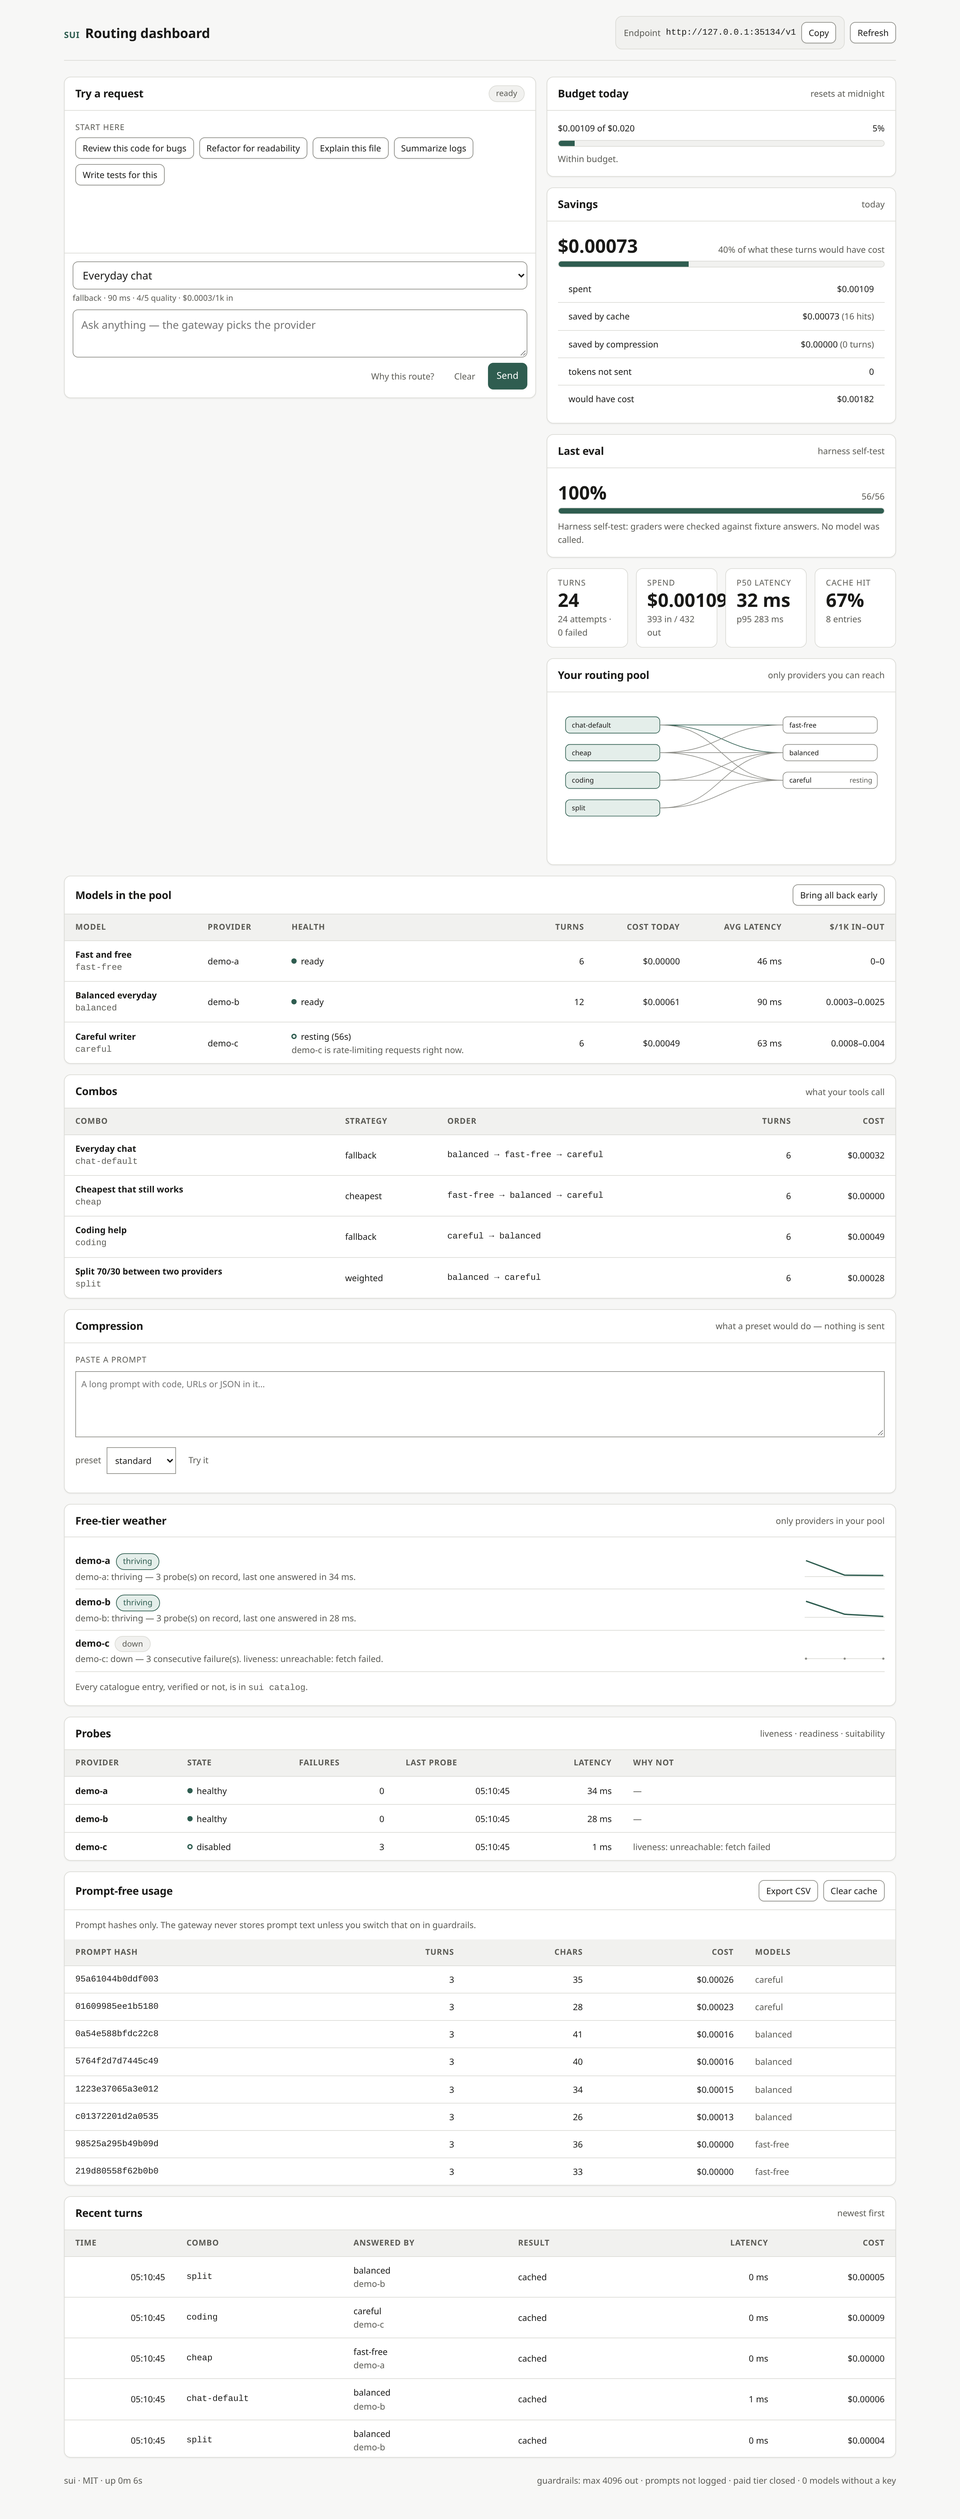
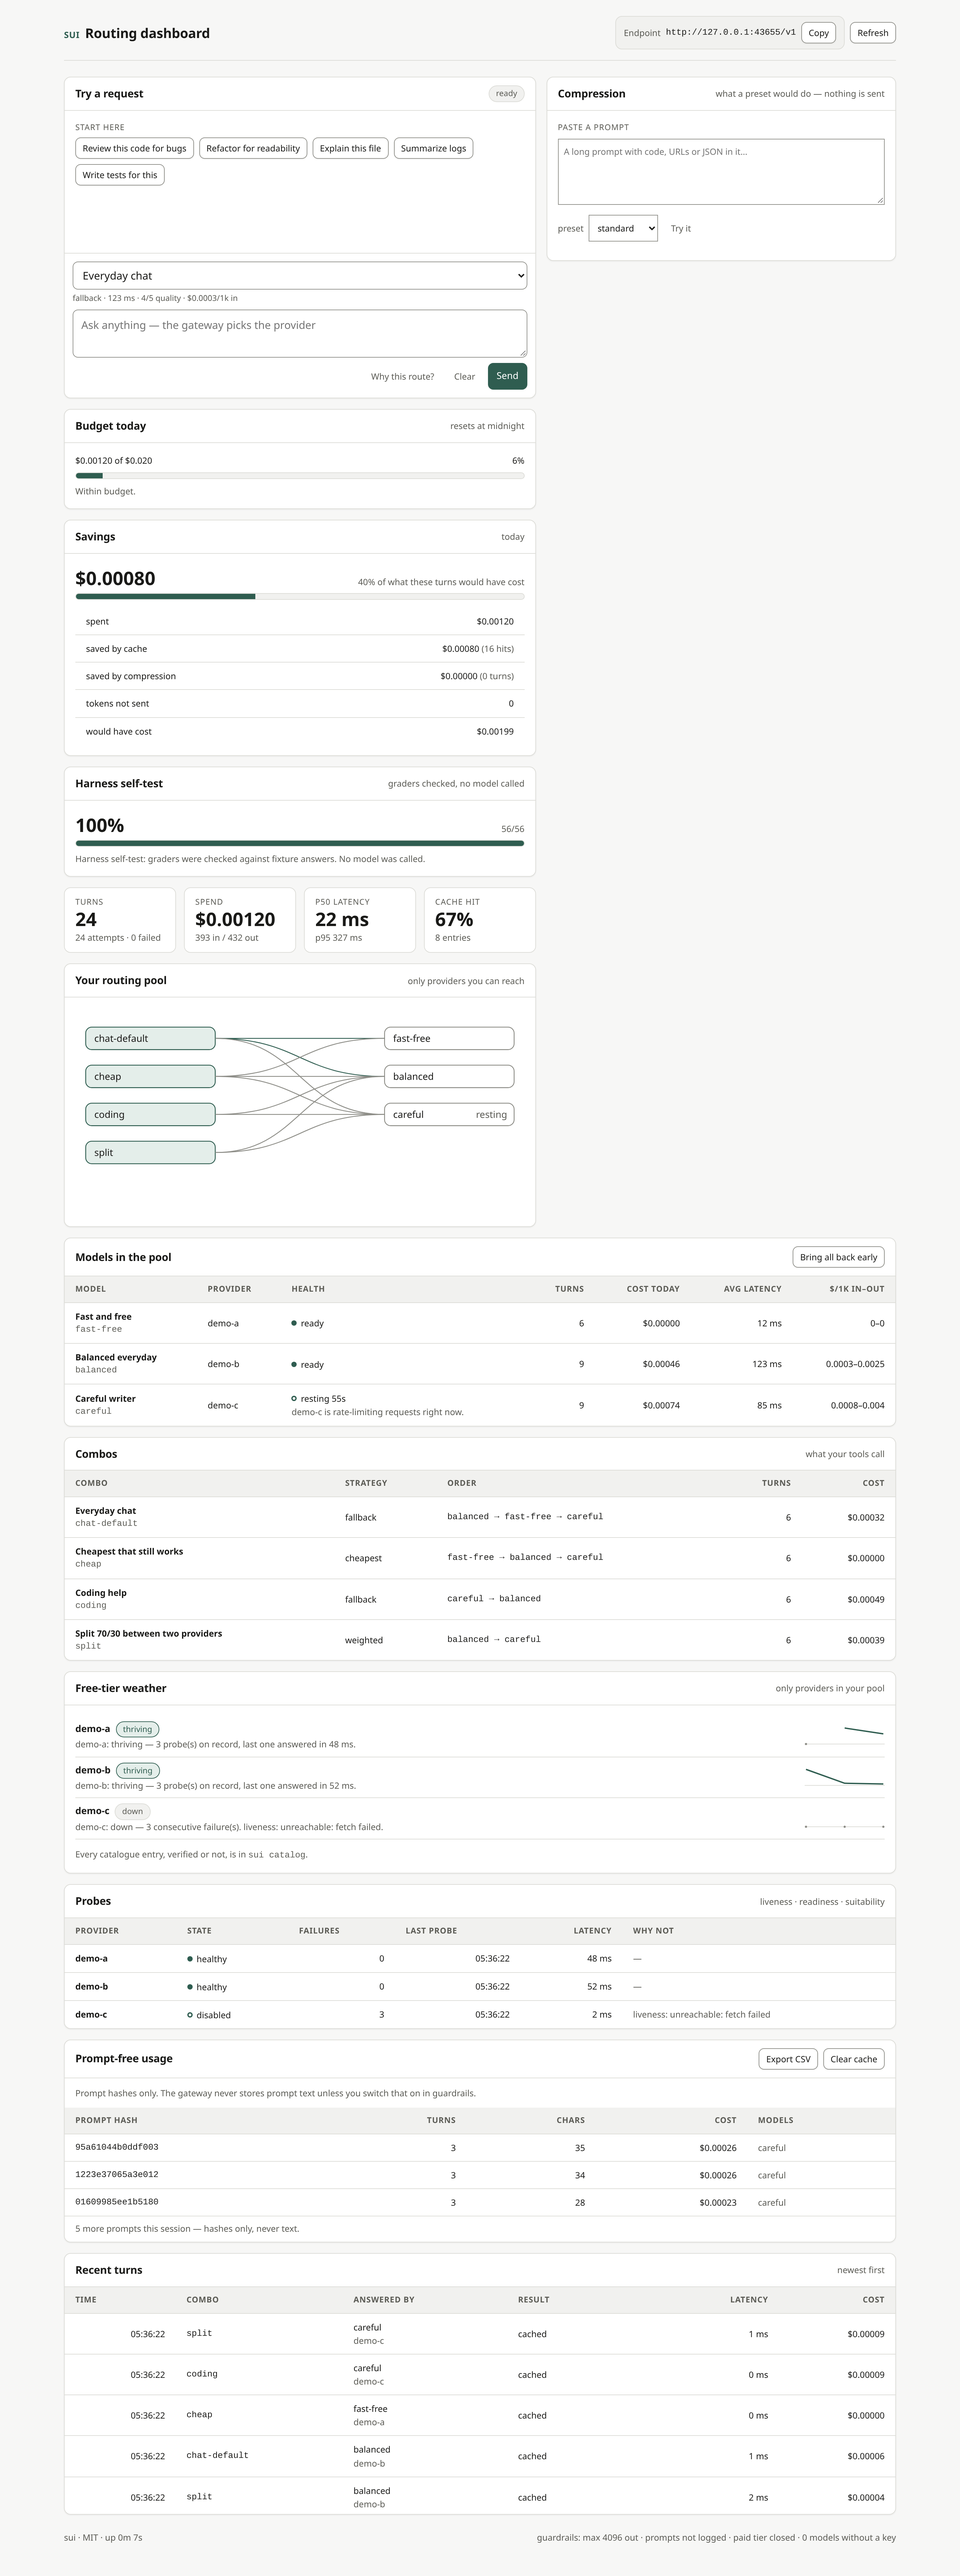
fix(dashboard): three findings from a design review, and a layout hole
Reviewed against the HIG checklist rather than by taste. Three findings, all of
them trust rather than polish:

1. The breaker emits 'half-open' with a hyphen; the stylesheet was written for
   'half_open' with an underscore. That state therefore had no dot and fell
   through to a nested ternary that produced a label reading as a bug — the
   health column said '0-mining (0s)'. Labels now come from one map, both
   spellings are styled, and the words are 'ready', 'resting 60s',
   'trying again'.

2. The card headed 'Last eval — 100%' was showing the harness self-test, which
   proves the graders grade and says nothing about answer quality. It is now
   headed 'Answer quality' and switches to 'Harness self-test' when that is what
   ran, with the sub-line 'graders checked, no model called'.

3. Eight rows of prompt hashes is noise nobody acts on. Three rows plus 'N more
   prompts this session — hashes only, never text.'

And the layout: the left column had a 400 px hole under the playground while the
right column ran four cards deep. The compression card — which is a 'do
something' card, like the playground — moved up to fill it.

Three tests hold the fixes, including one that fails if the eval heading claims a
quality measurement before one has run.

510 tests, audit 8/8, ADR 10/10.

diff --git a/apps/dashboard/web/dashboard.html b/apps/dashboard/web/dashboard.html
@@ -161,6 +161,7 @@
   .status { display: inline-flex; align-items: center; gap: 6px; font-size: var(--fs-13); white-space: nowrap; }
   .status .dot { width: 8px; height: 8px; border-radius: 50%; background: var(--accent); flex: none; }
   .status[data-state="open"] .dot { background: transparent; border: 2px solid var(--accent); }
+  .status[data-state="half-open"] .dot,
   .status[data-state="half_open"] .dot { background: var(--accent); opacity: 0.5; }
   .status[data-state="unknown"] .dot { background: var(--line-strong); }
 
@@ -304,6 +305,25 @@
       </div>
     </section>
 
+    <section class="card" id="compress-card" aria-labelledby="compress-h">
+      <header>
+        <h2 id="compress-h">Compression</h2>
+        <span class="hint">what a preset would do — nothing is sent</span>
+      </header>
+      <div class="body">
+        <label class="who" for="compress-text" style="display:block;font-size:var(--fs-12);text-transform:uppercase;letter-spacing:.06em;color:var(--text-dim);margin-bottom:var(--space-2)">Paste a prompt</label>
+        <textarea id="compress-text" rows="4" style="width:100%;font:inherit;font-size:var(--fs-13);padding:var(--space-2);border:1px solid var(--line-strong);border-radius:var(--radius-sm);background:var(--surface);color:var(--text)" placeholder="A long prompt with code, URLs or JSON in it…"></textarea>
+        <div class="row" style="display:flex;gap:var(--space-2);align-items:center;margin-top:var(--space-2);flex-wrap:wrap">
+          <label class="hint" for="compress-preset">preset</label>
+          <select id="compress-preset" style="font:inherit;font-size:var(--fs-13);padding:4px 8px;border:1px solid var(--line-strong);border-radius:var(--radius-sm);background:var(--surface);color:var(--text)">
+            <option>lite</option><option selected>standard</option><option>aggressive</option><option>ultra</option>
+          </select>
+          <button class="ghost small" id="compress-run" type="button">Try it</button>
+        </div>
+        <div id="compress-result" style="margin-top:var(--space-3)"></div>
+      </div>
+    </section>
+
     <!-- ------------------------------------------------ ops column -->
     <div class="split">
 
@@ -323,7 +343,7 @@
       </section>
 
       <section class="card" id="eval-card" aria-labelledby="eval-h">
-        <header><h2 id="eval-h">Last eval</h2><span class="hint" id="eval-when">—</span></header>
+        <header><h2 id="eval-h">Answer quality</h2><span class="hint" id="eval-when">—</span></header>
         <div class="body" id="eval-body">
           <div class="skeleton line" style="width: 60%"></div>
         </div>
@@ -387,24 +407,6 @@
       </div>
     </section>
 
-    <section class="card" id="compress-card" aria-labelledby="compress-h">
-      <header>
-        <h2 id="compress-h">Compression</h2>
-        <span class="hint">what a preset would do — nothing is sent</span>
-      </header>
-      <div class="body">
-        <label class="who" for="compress-text" style="display:block;font-size:var(--fs-12);text-transform:uppercase;letter-spacing:.06em;color:var(--text-dim);margin-bottom:var(--space-2)">Paste a prompt</label>
-        <textarea id="compress-text" rows="4" style="width:100%;font:inherit;font-size:var(--fs-13);padding:var(--space-2);border:1px solid var(--line-strong);border-radius:var(--radius-sm);background:var(--surface);color:var(--text)" placeholder="A long prompt with code, URLs or JSON in it…"></textarea>
-        <div class="row" style="display:flex;gap:var(--space-2);align-items:center;margin-top:var(--space-2);flex-wrap:wrap">
-          <label class="hint" for="compress-preset">preset</label>
-          <select id="compress-preset" style="font:inherit;font-size:var(--fs-13);padding:4px 8px;border:1px solid var(--line-strong);border-radius:var(--radius-sm);background:var(--surface);color:var(--text)">
-            <option>lite</option><option selected>standard</option><option>aggressive</option><option>ultra</option>
-          </select>
-          <button class="ghost small" id="compress-run" type="button">Try it</button>
-        </div>
-        <div id="compress-result" style="margin-top:var(--space-3)"></div>
-      </div>
-    </section>
 
     <section class="card" id="weather-card" aria-labelledby="weather-h" hidden>
       <header>
@@ -566,8 +568,17 @@ function renderKpis(totals, cache) {
 }
 
 function healthCell(m) {
-  const label = m.health === 'closed' ? 'ready' : m.health === 'open' ? `resting (${Math.ceil(m.retryInMs / 1000)}s)` : 'testing';
-  return `<span class="status" data-state="${m.health}"><span class="dot" aria-hidden="true"></span>${label}</span>`;
+  // The breaker says 'half-open' with a hyphen; the stylesheet was written for
+  // 'half_open' with an underscore, so that state had no dot and a label that
+  // read as a bug. One normaliser, one map, both spellings understood.
+  const state = String(m.health ?? 'unknown').replace(/_/g, '-');
+  const labels = {
+    closed: 'ready',
+    open: `resting ${Math.max(0, Math.ceil((m.retryInMs ?? 0) / 1000))}s`,
+    'half-open': 'trying again',
+    unknown: 'unknown',
+  };
+  return `<span class="status" data-state="${state}"><span class="dot" aria-hidden="true"></span>${labels[state] ?? escapeHtml(state)}</span>`;
 }
 
 function renderPool(pool) {
@@ -614,7 +625,11 @@ async function loadEval() {
     }
     const r = json.report;
     const pct = Math.round((r.passRate ?? 0) * 100);
-    when.textContent = r.mode === 'self-test' ? 'harness self-test' : `combo ${r.combo ?? '—'}`;
+    // A self-test proves the graders grade. It says nothing about answer quality,
+    // so the heading must not imply it did.
+    const title = document.querySelector('#eval-h');
+    if (title) title.textContent = r.mode === 'self-test' ? 'Harness self-test' : 'Answer quality';
+    when.textContent = r.mode === 'self-test' ? 'graders checked, no model called' : `combo ${r.combo ?? '—'}`;
     body.innerHTML = `
       <div class="row" style="display:flex;justify-content:space-between;align-items:baseline;gap:var(--space-3)">
         <span class="num" style="font-size: var(--fs-28); font-weight: 600">${pct}%</span>
@@ -778,7 +793,7 @@ function renderProbes(probes) {
   document.querySelector('#probes-body').innerHTML = probes.map((p) => `
     <tr>
       <td><strong>${escapeHtml(p.provider)}</strong></td>
-      <td><span class="status" data-state="${p.status === 'healthy' ? 'closed' : p.status === 'disabled' ? 'open' : 'half_open'}"><span class="dot" aria-hidden="true"></span>${p.status}</span></td>
+      <td><span class="status" data-state="${p.status === 'healthy' ? 'closed' : p.status === 'disabled' ? 'open' : 'half-open'}"><span class="dot" aria-hidden="true"></span>${p.status}</span></td>
       <td class="num">${p.failures}</td>
       <td class="num">${p.lastProbeAt ? new Date(p.lastProbeAt).toLocaleTimeString('en-IN', { hour12: false }) : '—'}</td>
       <td class="num">${p.latencyMs == null ? '—' : `${p.latencyMs} ms`}</td>
@@ -787,15 +802,21 @@ function renderProbes(probes) {
 }
 
 function renderTraces(prompts) {
+  // Eight rows of hex is noise nobody acts on; three plus a count is a signal.
+  const shown = prompts.slice(0, 3);
+  const rest = prompts.length - shown.length;
   $('#traces-body').innerHTML = prompts.length
-    ? prompts.map((p) => `
+    ? shown.map((p) => `
       <tr>
         <td class="mono">${p.promptHash}</td>
         <td class="num">${p.turns}</td>
         <td class="num">${num(p.chars)}</td>
         <td class="num">${money(p.costUsd)}</td>
         <td class="hint">${p.models.join(', ')}</td>
-      </tr>`).join('')
+      </tr>`).join('') +
+      (rest > 0
+        ? `<tr><td colspan="5" class="hint" style="padding-top: var(--space-2)">${rest} more prompt${rest === 1 ? '' : 's'} this session — hashes only, never text.</td></tr>`
+        : '')
     : `<tr><td colspan="5" class="hint" style="padding: var(--space-4)">Nothing routed yet. Send a request above.</td></tr>`;
 }
 

diff --git a/test/dashboard.test.js b/test/dashboard.test.js
@@ -104,8 +104,10 @@ test('the weather map is present, labelled in words, and never colour-only', () 
 
 test('the last-eval card is present and labelled honestly', () => {
   assert.match(html, /id="eval-card"/);
-  assert.match(html, /Last eval/);
-  assert.match(html, /harness self-test/);
+  // the heading is a promise about what was measured, so it starts neutral and
+  // switches to "Harness self-test" when that is what ran
+  assert.match(html, /<h2 id="eval-h">Answer quality<\/h2>/);
+  assert.match(html, /harness self-test/i);
   assert.match(html, /No eval has been run on this machine/);
 });
 
@@ -172,4 +174,39 @@ test('the dashboard smoke test covers the three states a page breaks in', async 
   // the fresh-install state has a provider and no key, not an empty config:
   // a gateway with no providers is refused by validation, correctly
   assert.match(script, /apiKeyEnv: 'GROQ_API_KEY_NOT_SET'/);
+});
+
+/* --------------------------- the dashboard must not mislead (design review) */
+
+test('every breaker state has a human label, in both spellings', async () => {
+  const { readFileSync } = await import('node:fs');
+  const { join } = await import('node:path');
+  const html = readFileSync(join(process.cwd(), 'apps', 'dashboard', 'web', 'dashboard.html'), 'utf8');
+
+  // the breaker emits 'half-open'; the stylesheet was written for 'half_open',
+  // so that state rendered with no dot and a label that read as a bug
+  assert.match(html, /'half-open':/, 'the half-open state needs a label');
+  assert.match(html, /data-state="half-open"\] \.dot/);
+  assert.match(html, /data-state="half_open"\] \.dot/, 'the old spelling must keep working');
+  assert.equal(/health === 'closed' \? 'ready' : m\.health === 'open' \?/.test(html), false, 'the label must come from a map, not a nested ternary');
+});
+
+test('the eval card does not imply answer quality when it ran a self-test', async () => {
+  const { readFileSync } = await import('node:fs');
+  const { join } = await import('node:path');
+  const html = readFileSync(join(process.cwd(), 'apps', 'dashboard', 'web', 'dashboard.html'), 'utf8');
+
+  // a self-test proves the graders grade; a heading of "Last eval / 100%" says
+  // something else entirely
+  assert.equal(/<h2 id="eval-h">Last eval<\/h2>/.test(html), false, 'the heading must not claim an eval before one has run');
+  assert.match(html, /r\.mode === 'self-test' \? 'Harness self-test' : 'Answer quality'/);
+});
+
+test('prompt hashes are capped and the remainder is counted', async () => {
+  const { readFileSync } = await import('node:fs');
+  const { join } = await import('node:path');
+  const html = readFileSync(join(process.cwd(), 'apps', 'dashboard', 'web', 'dashboard.html'), 'utf8');
+
+  assert.match(html, /prompts\.slice\(0, 3\)/, 'eight rows of hex is noise; three plus a count is a signal');
+  assert.match(html, /more prompt\$\{rest === 1 \? '' : 's'\} this session/);
 });

diff --git a/docs/index.html b/docs/index.html
@@ -110,7 +110,7 @@
   </div>
 
   <div class="strip">
-    <div class="stat"><div class="k">tests</div><div class="v num">507</div><div class="f">no network, no keys</div></div>
+    <div class="stat"><div class="k">tests</div><div class="v num">510</div><div class="f">no network, no keys</div></div>
     <div class="stat"><div class="k">p95 overhead</div><div class="v num">1.13<span style="font-size:var(--fs-16)"> ms</span></div><div class="f">budget 15 ms</div></div>
     <div class="stat"><div class="k">invariants</div><div class="v num">19</div><div class="f">each with a test</div></div>
     <div class="stat"><div class="k">catalogue</div><div class="v num">29</div><div class="f">endpoints, all awaiting a probe</div></div>

diff --git a/ROADMAP.md b/ROADMAP.md
@@ -136,6 +136,8 @@ All todo. `ai-bridge` (MCP-shaped tool plumbing, adapters) is the intended refer
 
 **B11.9 ADRs — done**: ADR-0008 (drift), 0009 (MCP both directions), 0010 (recipes), 0011 (attribution and tenants), 0012 (the four routing policies) join the original seven. `CONTRIBUTING.md` records the invariant discipline, the four harnesses, the three kinds of test failure, and the rules for adapters, engines and kits.
 
+**Dashboard critique — done**: reviewed against the HIG checklist. Three findings, all fixed: the breaker's `half-open` state had no styling and a label that read as a bug (`0-mining (0s)` — the stylesheet expected `half_open` with an underscore), the card headed **"Last eval — 100%"** was showing the *harness self-test*, which says nothing about answer quality, and eight rows of prompt hashes were noise nobody acts on. Also moved the compression card into the left column, which had a 400 px hole under the playground. Three tests hold the fixes.
+
 **Documentation pass — done**: the README was 202 lines with a 42-bullet feature wall, written for someone auditing claims rather than someone deciding whether to use the project. It is now 112 lines in the OSS template's shape — about, why it exists, install, ten features, how it holds itself, docs map, status, licence — with the full list moved to `docs/FEATURES.md`. Following it cold in a fresh clone found the bug that made the whole thing necessary: the first run printed *"Start it with: npx sui start"*, and `npx sui` cannot work before a publish. Every runtime hint now matches how the CLI was invoked, and a test fails if `npx sui` appears in first-run output.
 
 **Windows without npx — done**: `npx sui` cannot work before a publish, so the repo now ships wrappers that need no npm account — `sui.cmd` (CMD), `sui.ps1` (PowerShell), `sui` (sh) — plus `scripts/install-windows.ps1` (checks Node, links workspaces, proves the CLI runs) and `docs/WINDOWS.md` written for someone who has never opened a terminal. `npm link` now gives a global `sui` from the checkout. Also fixed: `sui --version` and `sui --help` fell through to the first-run onboarding, because both arrive as flags rather than as a command.

diff --git a/README.md b/README.md
@@ -73,7 +73,7 @@ Nineteen invariants live as data in [`packages/core/src/invariants.js`](packages
 | **I13** | The breaker trips on 5xx and transport only — never on 401, 404 or 429. |
 | **I19** | The health history holds no prompt content, and drops any row that carries it. |
 
-Run `npm test`, `npm run audit` (8 static checks plus 10 ADR compliance checks), `npm run eval:self`, `npm run soak`, `npm run smoke:dashboard`. The numbers, as of this commit: **507 tests, audit 8/8, ADR 10/10, p95 overhead ~1 ms against a 15 ms budget.**
+Run `npm test`, `npm run audit` (8 static checks plus 10 ADR compliance checks), `npm run eval:self`, `npm run soak`, `npm run smoke:dashboard`. The numbers, as of this commit: **510 tests, audit 8/8, ADR 10/10, p95 overhead ~1 ms against a 15 ms budget.**
 
 ## Documentation
 

diff --git a/CHANGELOG.md b/CHANGELOG.md
@@ -53,7 +53,7 @@ The version where the gateway became usable by agents, stopped being one process
 
 ### Verified at this version
 
-507 tests · audit 8/8 · eval self-test 56/56 · soak p95 ≈1 ms against a 15 ms budget · 19 invariants, each with an enforcement point and a named test.
+510 tests · audit 8/8 · eval self-test 56/56 · soak p95 ≈1 ms against a 15 ms budget · 19 invariants, each with an enforcement point and a named test.
 
 ### Sandbox (B5.6)
 
